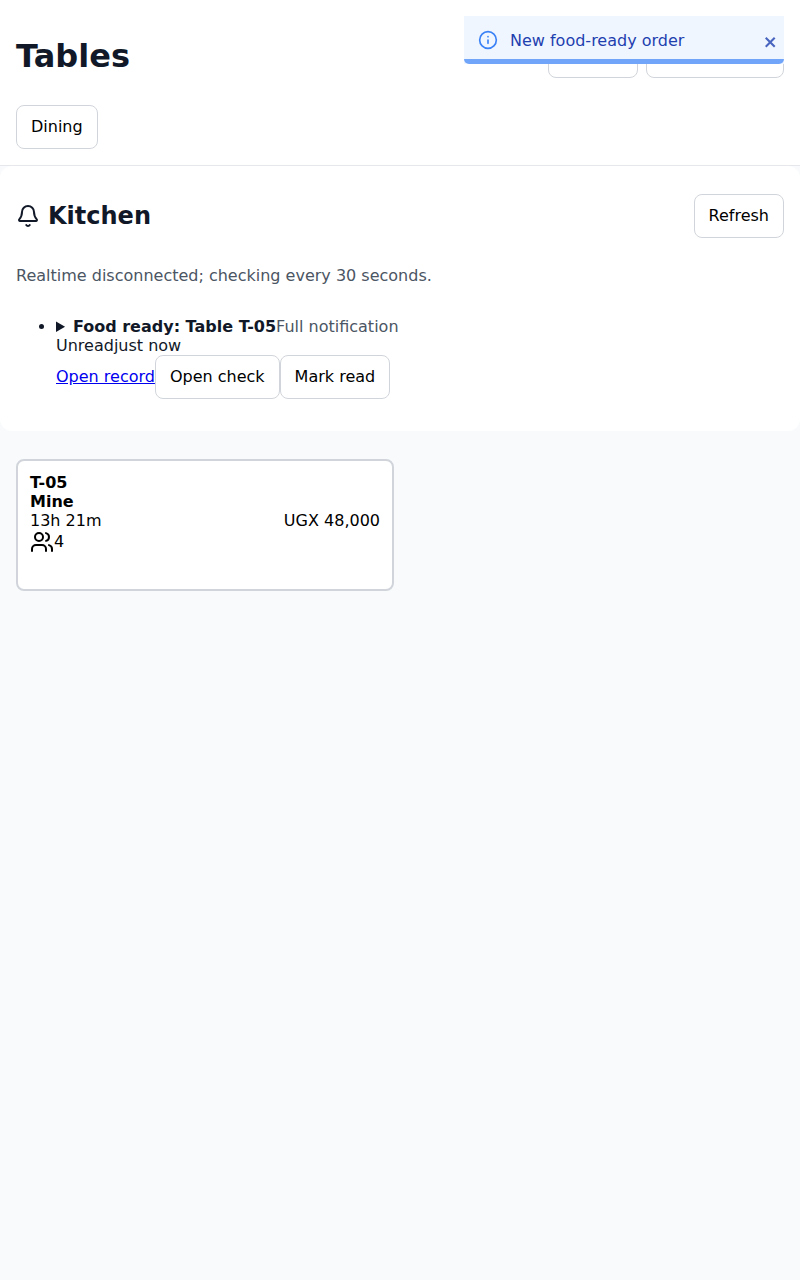
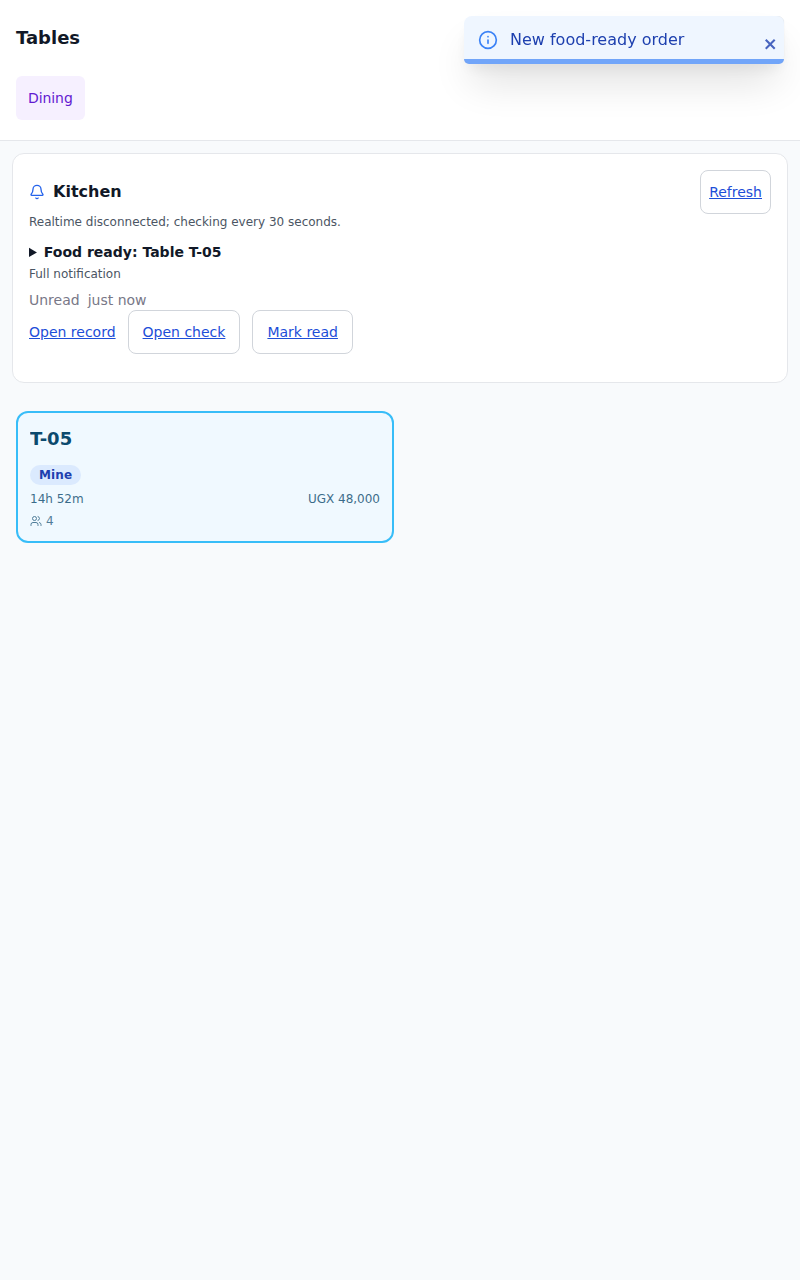
docs: recapture waiter evidence with production CSS

diff --git a/docs/pr-assets/waiter-split-food-ready/README.md b/docs/pr-assets/waiter-split-food-ready/README.md
@@ -15,6 +15,11 @@ production screenshots.
 Each PNG has a `.txt` sibling containing `document.body.innerText` captured at
 the same time.
 
+The harness imports the app's real `pos/src/index.css` and launches Vite from
+`pos/`, so responsive Tailwind utilities such as `lg:hidden` and `hidden lg:flex`
+match the production layout. Its `visual.css` adds capture-only presentation
+overrides.
+
 ## Mock disclosure
 
 The harness uses no live Frappe site, tenant, session, database,
